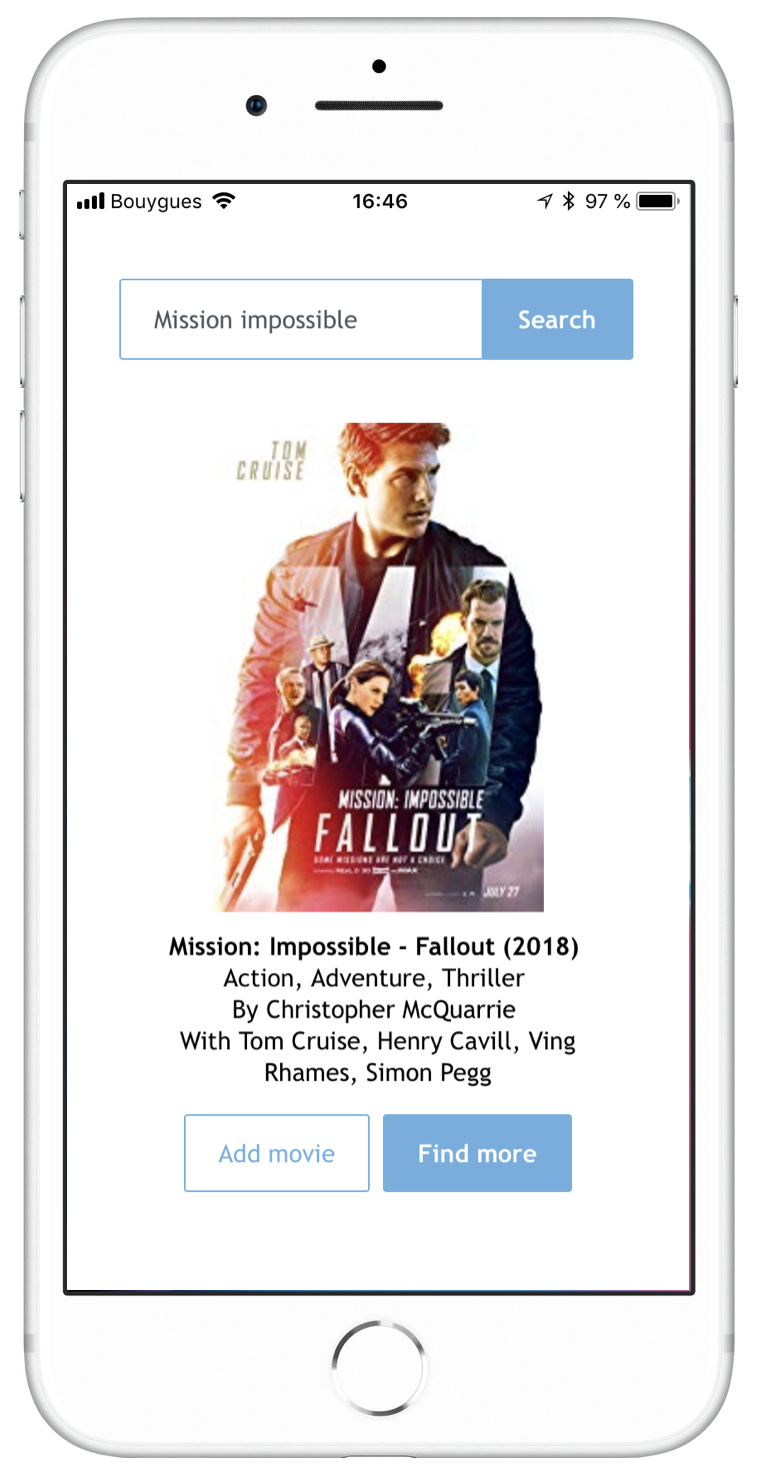
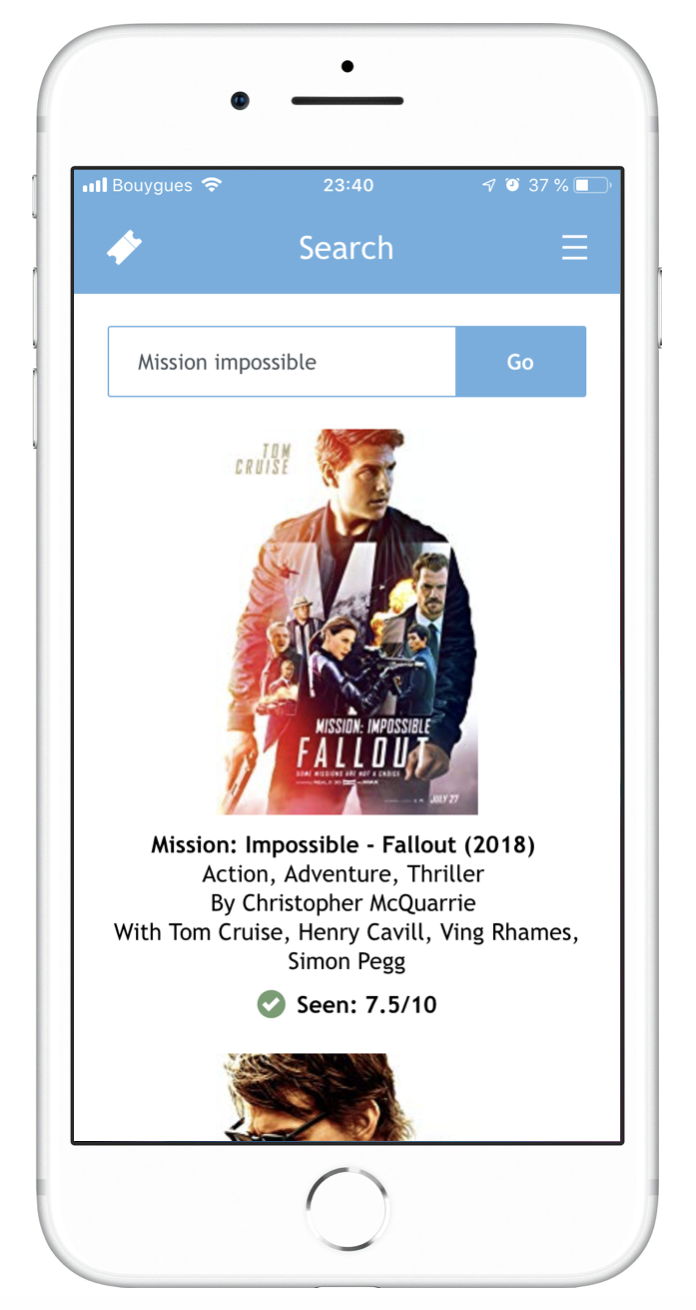
Updated README.md file (mostly updated the Flask App part describing the web app)

diff --git a/README.md b/README.md
@@ -4,9 +4,11 @@ _Since January 2014, I have been keeping an Excel log of movies as I watched the
 
 This project aims at keeping a journal of the movies I have seen. It takes the form of a Postgres database containing both the logs of all the movies I have seen and [open IMDb data](https://www.imdb.com/interfaces/). This enables me to get a lot of information about the movies I have seen, and also to be able to compute all kinds of useful statistics (proportion of movies watched per genre, favourite directors, actors, writers, etc.)
 
-In order to add movies to the database (with their IMDb ID!) conveniently, whenever I want from my phone or my computer, I also built a simple Flask website, which looks something like this:
+In order to add movies to the database (with their IMDb ID!) conveniently, whenever I want from my phone or my computer, I also built a web app, in the form of a Flask Website, which looks something like this:
 
 <div align="center" border="1px"><img src="img/search_page.png" width="250px"/></div>
+
+It recently evolved into a more sophisticated web app offering new features, such as a "Recent" page to check the most recent movies seen and a "Statistics" page.
 
 
 ### Overview
@@ -50,15 +52,42 @@ Usage example: `python main_search.py -m "star wars the force awakens"`
 
 ### 3. Flask App
 
-At this point, the Journal takes the form of a database containing the open IMDb data, and the movies I watched identified by their IMDb ID, which I can get with the `main_search.py` script. But this is not convenient: I cannot do it from any device, or even from my phone, and more importantly it requires to write an "insert" SQL query.
+At this point, the Journal takes the form of a database containing the open IMDb data, and the movies I watched identified by their IMDb ID, which I can get with the `main_search.py` script. But this is not convenient:
 
-This is why I built a Flask web-app, which enables me to have a proper interface for searching and adding movies to my journal, from anywhere and without the need to write an SQL query.
+- I cannot do it from any device, or even from my phone, and more importantly it requires to write an "insert" SQL query.
+- I cannot check easily which movies I watched recently or compute basic statistics. It also requires an SQL query.
+
+This is why I built a Flask web-app, which enables me to do these things I cannot do easily, and more. For now, it has three pages, which can be reached through a dynamic menu on the top right.
 
 The web-app code (routes, HTML templates, CSS code, etc.) can be found in the `app` folder. It is hosted on my Raspberry Pi so I can reach it at any time from my phone or computer.
 
-Here is how it looks like:
+**Important Note:** 
 
-<div align="center" border="1px"><img src="img/dual_pages.png" width="500px"/></div>
+**The Flask application must be run on a python 3.6+ environment**, since it uses the fact that basic python dicts are ordered. Using it with a lower Python version will result in search page malfunctions.
+
+#### 3.1 Search page
+
+The "Search" page enables me to have a proper interface for searching and adding movies to my journal, from anywhere and without the need to write an SQL query.
+
+<div align="center" border="1px"><img src="img/search_page_menu.png" width="500px"/></div>
+
+This page is the landing page of the web-app. Also, clicking on the top-left icon will always bring you back to an empty search page, while the top-right icon is the menu, it enables the user to acces the other pages.
+
+#### 3.2 Recent page
+
+The "Recent" page aims at enabling me to have an easy access to the last movies I saw.
+
+<div align="center" border="1px"><img src="img/recent_page.png" width="250px"/></div>
+
+The timeline was made using a combination of images, CSS styling and HTML table.
+
+#### 3.3 Statistics page
+
+The "Statistics" page aims at providing me with some statistics regarding my activity and tastes.
+
+Some statistics are really basic, such as the number of movies seen within the last month, or year. But some statistics are more interesting, such as the best directors, best actors, etc. For instance, if I did not know a lot about directors, so I might have liked very much several movies of a specific director and not know him! This would show him within the list that you can see above:
+
+<div align="center" border="1px"><img src="img/statistics_page.png" width="250px"/></div>
 
 
 ### 4. Movie Recommendation (in progress)
